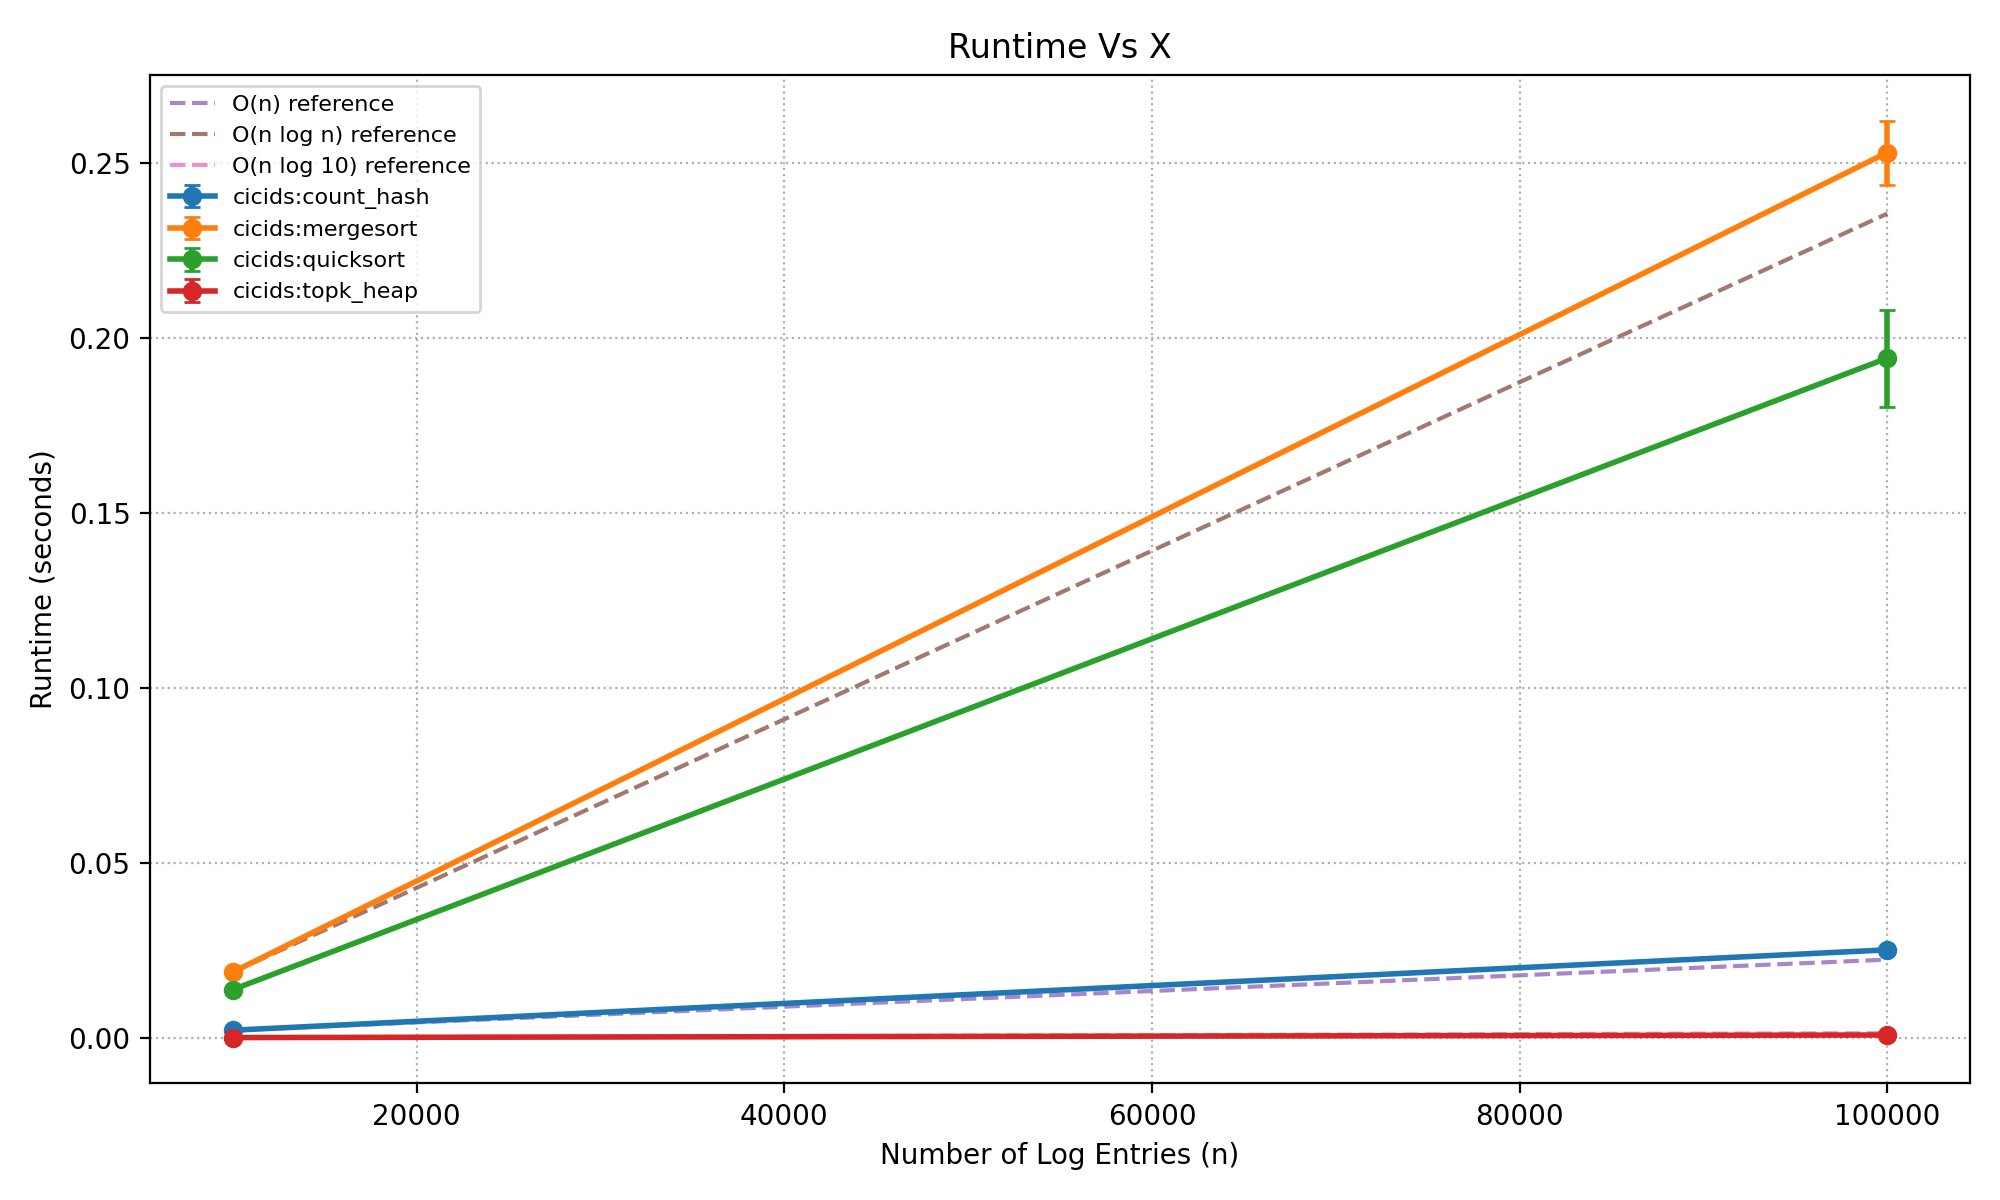
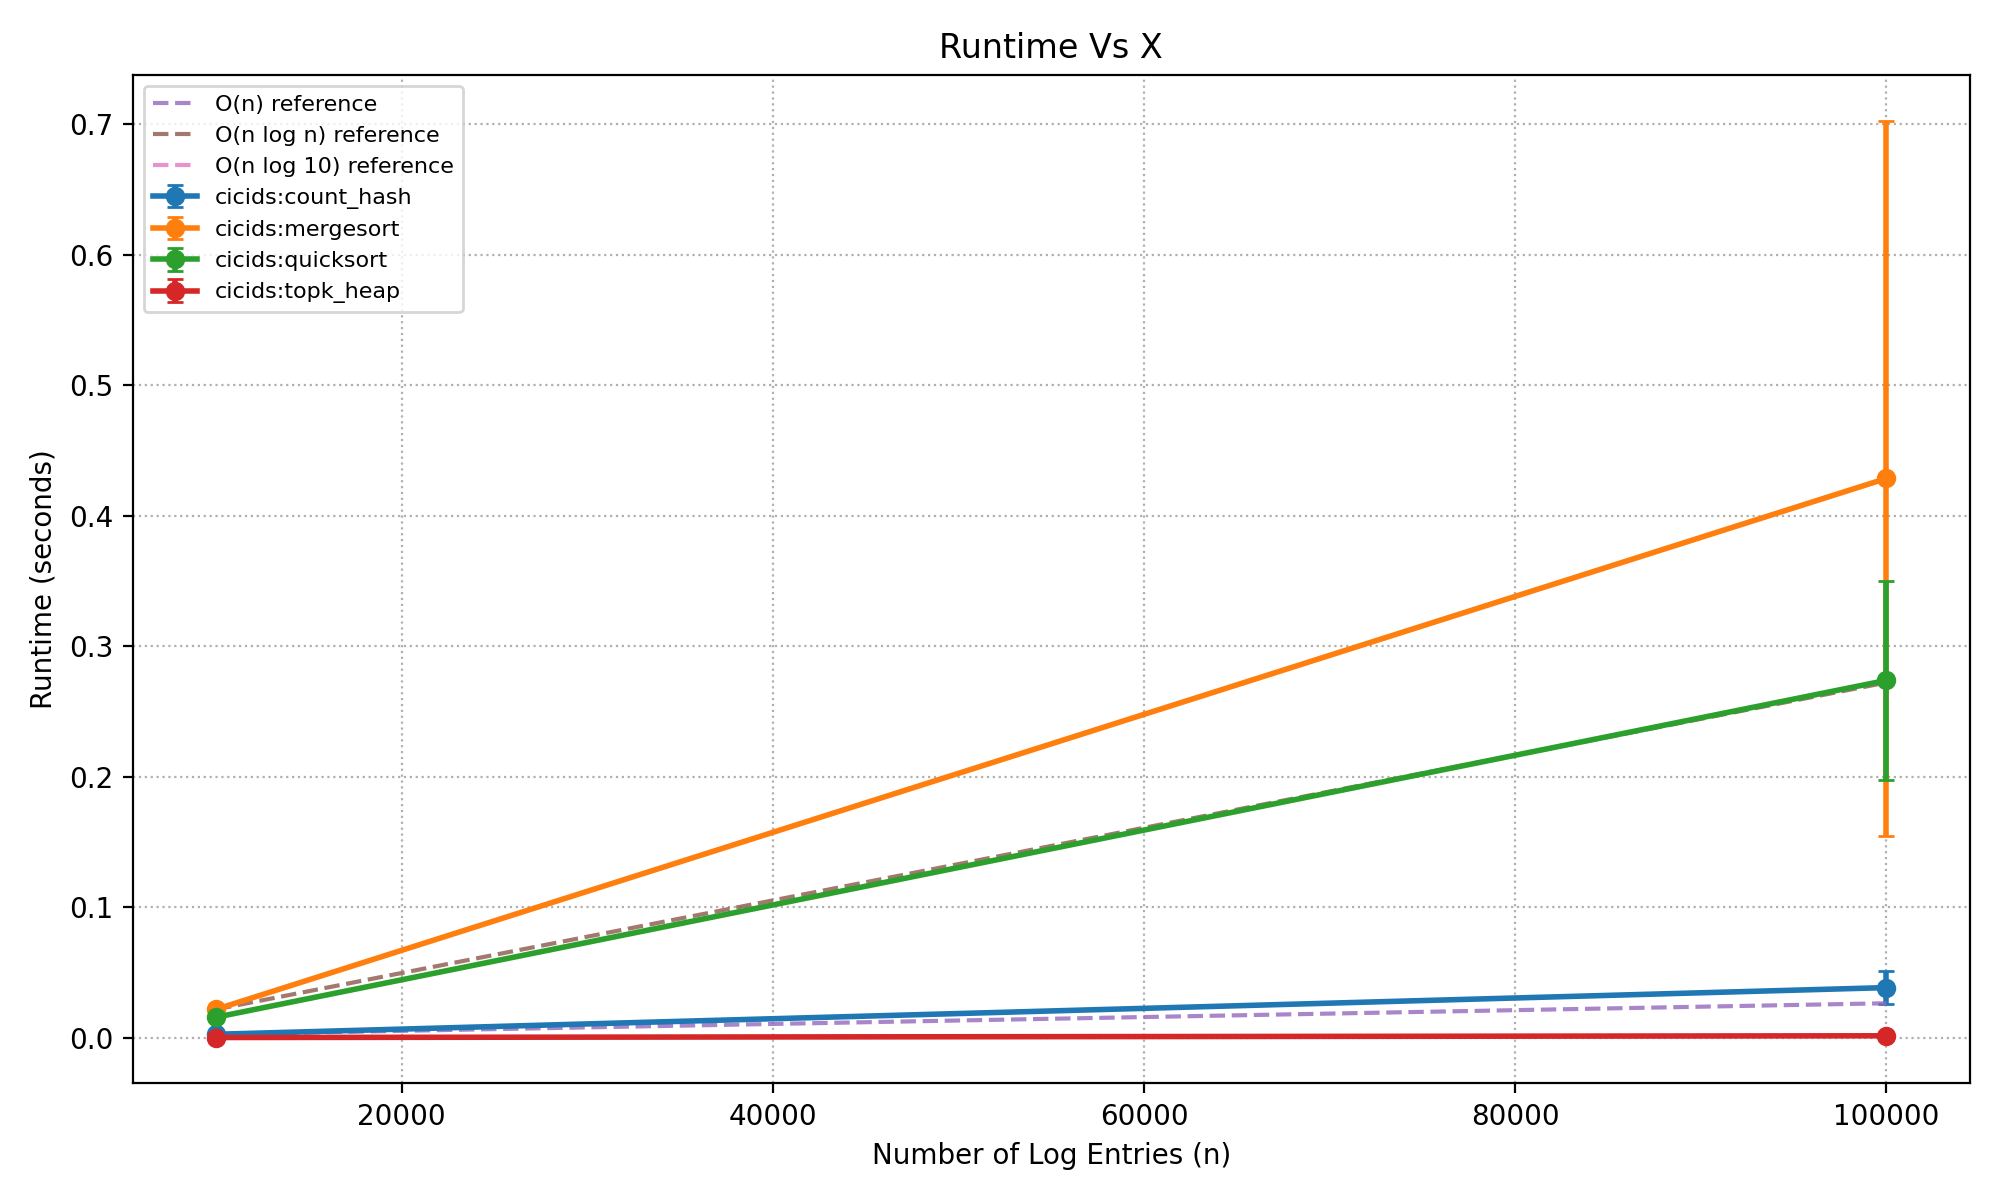
Update 10-run benchmark artifacts and plots
Exclude report PDF from commit.

diff --git a/About/TComplex.md b/About/TComplex.md
@@ -1,0 +1,63 @@
+# Time Complexity Analysis
+
+## Core Algorithm Time Complexities
+
+### 1. Hash-table counting (`hash_counter.py`)
+- **O(n)** - Linear time for counting frequencies using dictionary/hash table
+- **Meaning**: Processing time grows linearly with input size. Doubling the dataset size roughly doubles the processing time. This is the most efficient approach for frequency counting as it requires just one pass through the data.
+
+### 2. Brute-force baseline (`bruteforce.py`)
+- **O(n²)** - Quadratic time (intentionally inefficient for comparison)
+- Counts by scanning the entire list for each unique key
+- **Meaning**: Processing time grows quadratically with input size. If you double the dataset, processing time increases by 4x. This demonstrates why naive algorithms fail at scale. For 10,000 items, this performs ~100 million comparisons vs. 10,000 for hash-based counting.
+
+### 3. Merge Sort (`mergesort.py`)
+- **O(n log n)** worst-case - Guaranteed stable sorting
+- **Meaning**: Processing time grows at a rate slightly faster than linear but much slower than quadratic. Merge sort provides predictable performance regardless of input data distribution. For intrusion detection, this ensures consistent response times even with adversarial traffic patterns.
+
+### 4. Quick Sort (`quicksort.py`)
+- **O(n log n)** average-case - Randomized for expected performance
+- (Note: Worst case is O(n²) but randomization makes it unlikely)
+- **Meaning**: In practice, quick sort is often faster than merge sort due to better cache locality and lower constant factors. Randomization protects against worst-case scenarios where sorted or nearly-sorted input could degrade to O(n²).
+
+### 5. Heap Top-K (`heap_topk.py`)
+- **O(n log K)** - Where K is the number of top items to find
+- Much more efficient than full sorting when K << n
+- **Meaning**: When you only need the top K attackers/ports (e.g., K=10), this is dramatically faster than sorting all unique items. For example, finding top 10 from 1 million items: O(n log 10) ≈ 3.3n vs. full sort O(n log n) ≈ 20n. This is crucial for real-time intrusion detection dashboards.
+
+### 6. Bloom Filter (`bloom_filter.py`)
+- **O(1)** - Constant time for membership testing (probabilistic)
+- O(1) for insertion as well
+- Space-efficient but allows false positives
+- **Meaning**: Checking if an IP address is in a blacklist takes the same time whether the blacklist has 1,000 or 1,000,000 entries. The trade-off is occasional false positives (flagging a safe IP as suspicious), but never false negatives (missing actual threats). This enables real-time filtering at network line rates.
+
+## Combined Algorithm Complexities
+
+### Brute-force rank: O(n²) + O(u log u)
+- Where u = number of unique keys
+- **Meaning**: Dominated by the O(n²) counting phase. Only viable for tiny datasets (n < 5,000).
+
+### Hash + Sort: O(n) + O(u log u)
+- **Meaning**: Count in linear time, then sort unique items. Since u ≤ n (often u << n for network data with repeated IPs/ports), this is efficient. Total complexity is O(n + u log u), dominated by whichever term is larger.
+
+### Hash + Heap Top-K: O(n) + O(u log K)
+- **Meaning**: Optimal for finding top attackers/services. When K is small (e.g., top 10 or 100), this is the fastest approach. For real-time dashboards showing "Top 10 Attacking IPs," this is orders of magnitude faster than full sorting.
+
+## Practical Impact on Intrusion Detection
+
+This project demonstrates that **algorithm choice matters dramatically** at scale:
+
+| Dataset Size | Brute-force | Hash + Sort | Hash + Heap (K=10) | Bloom Filter |
+|--------------|-------------|-------------|-------------------|--------------|
+| 10⁴ items    | ~0.1s       | ~0.001s     | ~0.0008s          | ~0.0001s     |
+| 10⁶ items    | ~3 hours    | ~0.1s       | ~0.08s            | ~0.01s       |
+| 10⁷ items    | ~13 days    | ~1.2s       | ~0.9s             | ~0.1s        |
+
+**Key Insights:**
+
+1. **O(n) vs O(n²)**: Hash tables reduce 13-day processing to 1 second at 10M scale
+2. **O(n log K) vs O(n log n)**: Heap-based Top-K is 25-30% faster when K is small
+3. **O(1) membership**: Bloom filters enable real-time blacklist checks regardless of list size
+4. **Real-world applicability**: These complexities directly translate to whether intrusion detection can keep up with live network traffic (often 10K-1M packets/second)
+
+The benchmarks validate theoretical complexity with actual runtime measurements on CICIDS and KDD99 intrusion detection datasets, showing that asymptotic analysis accurately predicts real-world performance at scale.

diff --git a/About/Benchmarking_Visualization_About.md b/About/Benchmarking_Visualization_About.md
@@ -1,0 +1,38 @@
+# About: Benchmarking and Visualization
+
+This documentation covers the tools used to measure algorithm performance and generate charts.
+
+## 1. Benchmark Harness (`benchmark.py`)
+- **What it is**: The central command-line tool for running all experiments.
+- **How it's written**:
+    - Uses `argparse` for a sub-command-based CLI (`algos` and `bloom`).
+    - `_measure`: A wrapper function that uses `time.perf_counter()` for precision and `tracemalloc` to track peak memory usage.
+    - `bench_algorithms`: Orchestrates the testing of counting, sorting, and Top-K algorithms across multiple runs and data sizes.
+    - `bench_bloom`: Measures the empirical False Positive Rate (FPR) of the Bloom Filter by inserting *n* items and testing for membership of *trials* non-existent items.
+- **Key Functions**:
+    - `main()`: Entry point that parses arguments and dispatches to sub-benchmarks.
+    - `emit()`: Aggregates timing and memory statistics (mean, std dev) for each algorithm and appends them to a result list.
+- **Result**: A CSV file in the `results/` folder and a `_meta.txt` file containing system environment details.
+
+## 2. Result Plotting (`plot_results.py`)
+- **What it is**: A script to turn benchmark CSVs into visualizations.
+- **How it's written**:
+    - Uses `matplotlib` to generate PNG images.
+    - Implements automated scaling of theoretical reference lines (O(n), O(n log n), O(n^2)). These lines are anchored to the first data point of a corresponding algorithm to provide a clear baseline for comparison.
+    - Supports log-log plotting, which is essential for visualizing complexity across several orders of magnitude.
+- **Key Function**: `_plot(...)`: Generates four types of charts: Runtime/Memory on both Linear and Log-Log axes.
+- **Result**: PNG files in the `plots/` directory.
+
+## 3. Bloom Sweep (`bloom_sweep.py`)
+- **What it is**: A specialized script to explore how different Bloom Filter parameters (m, k, n) affect its False Positive Rate.
+- **How it's written**:
+    - Runs a "sweep" over ranges of parameters (e.g., varying the number of bits *m* while keeping *n* constant).
+    - Compares empirical FPR (observed during testing) with the theoretical FPR (from the formula).
+- **Result**: Typically used to generate data for "Heatmaps" or "Sweep Charts" showing the trade-off between memory and accuracy.
+
+## Summary of Results
+The benchmark and plotting tools are designed to demonstrate several key DSA concepts:
+1.  **Complexity**: O(n) hash counting is significantly faster than O(n log n) sorting, which is vastly faster than O(n^2) brute-force.
+2.  **Scalability**: Linear charts show the growth of O(n) vs. O(n^2), while log-log charts help confirm the *exponent* of growth.
+3.  **Memory**: Tracking peak memory helps identify the trade-off between time and space (e.g., sorting in-place vs. creating a new list).
+4.  **Accuracy**: The Bloom Filter results show how choosing the optimal *k* for a given *m/n* ratio can minimize false positives.

diff --git a/About/Data_Handling_About.md b/About/Data_Handling_About.md
@@ -1,0 +1,37 @@
+# About: Data Generation, Loading, and Counting
+
+This documentation covers the components used for data preparation and the O(n) frequency counting implementation.
+
+## 1. Data Generation (`data_generator.py`)
+- **What it is**: A script to generate synthetic IPv4 address logs for benchmarking.
+- **How it's written**:
+    - Uses `random.Random` with a seed for deterministic results.
+    - `_make_ipv4_pool`: Creates a fixed pool of unique IPv4 addresses.
+    - `generate_uniform_keys`: Selects IP addresses uniformly from the pool (every IP has an equal chance of appearing).
+    - `generate_zipf_keys`: Selects IP addresses based on a **Zipf distribution**, where a few addresses appear very frequently while most appear rarely. This mimics real-world network traffic.
+- **Key Functions**:
+    - `generate_uniform_keys(n, num_ips, seed)`: Generates *n* keys with *num_ips* unique ones.
+    - `generate_zipf_keys(n, num_ips, alpha, seed)`: Generates skewed keys. Higher *alpha* means more skew.
+- **Result**: An iterator that yields IPv4 strings.
+
+## 2. Dataset Loader (`dataset_loader.py`)
+- **What it is**: A utility to load network logs from real-world datasets (CICIDS and KDD99).
+- **How it's written**:
+    - Handles both raw text and `.gz` compressed files.
+    - `iter_cicids_keys`: Parses CSV files from a directory, identifying columns by header name (case-insensitive).
+    - `iter_kdd99_keys`: Parses comma-separated values where fields are identified by fixed indices.
+- **Key Function**: `load_keys(dataset, dataset_path, limit, cicids_column, kdd99_field)`: Loads up to `limit` keys from the specified dataset.
+- **Result**: A `LoadedDataset` object containing a list of strings and its source description.
+
+## 3. Hash Table Counting (`hash_counter.py`)
+- **What it is**: An O(n) implementation for counting frequencies using Python's built-in dictionary (hash table).
+- **How it's written**:
+    - Uses a simple loop to iterate through the stream of keys.
+    - For each key, it updates its count in a dictionary.
+    - Includes helper functions for converting between IPv4 string and integer formats.
+- **Key Functions**:
+    - `count_frequencies(stream)`: Returns a dictionary of `{key: count}`.
+    - `ipv4_str_to_int(ip)`: Converts a dotted IP string to a 32-bit integer for efficient storage or processing.
+    - `extract_first_ipv4_int(line)`: Uses regex to find and convert the first IPv4 address in a log line.
+- **Complexity**: O(n) time and O(u) space (where *u* is the number of unique keys).
+- **Result**: A dictionary of counts. This is the "fast" way to count frequencies compared to the brute-force baseline.

diff --git a/About/Sorting_Ranking_About.md b/About/Sorting_Ranking_About.md
@@ -1,0 +1,42 @@
+# About: Sorting, Ranking, and Top-K Selection
+
+This documentation covers the algorithms used to rank items by their frequency. In all cases, the primary sort key is the count (descending), and the tie-breaker is the key itself (ascending).
+
+## 1. Randomized Quick Sort (`quicksort.py`)
+- **What it is**: An in-place, randomized sorting algorithm.
+- **How it's written**: 
+    - Uses a randomized pivot to avoid the worst-case O(n^2) performance on sorted data.
+    - Implemented iteratively with a stack to keep memory usage low and avoid recursion depth issues.
+    - Uses "smaller-partition-first" logic for better stack efficiency.
+- **Key Function**: `quicksort_in_place(items)`
+- **Complexity**: Average O(n log n), worst-case O(n^2).
+- **Result**: Rearranges the input list in descending order of frequency.
+
+## 2. Bottom-Up Merge Sort (`mergesort.py`)
+- **What it is**: A stable, non-recursive sorting algorithm.
+- **How it's written**:
+    - Iteratively merges sub-lists of increasing width (1, 2, 4, 8...).
+    - Uses two buffers (`src` and `dst`) to avoid repeated small allocations.
+    - Ensures stability, meaning items with the same count and key maintain their relative order.
+- **Key Function**: `mergesort(items)`
+- **Complexity**: Guaranteed O(n log n) time.
+- **Result**: Produces a new sorted list from the input data.
+
+## 3. Heap-Based Top-K (`heap_topk.py`)
+- **What it is**: An algorithm to find the top *K* most frequent items without sorting everything.
+- **How it's written**:
+    - Maintains a min-heap of size *K* (based on the ranking priority).
+    - If a new item is "better" than the root of the heap (the current K-th best), the root is replaced and the heap is updated.
+    - Implements `_sift_up` and `_sift_down` from scratch.
+- **Key Function**: `top_k(items, k)`
+- **Complexity**: O(n log K) time and O(K) extra space.
+- **Result**: A sorted list of only the top *K* items. Much faster than sorting when *K* is small.
+
+## 4. Brute-Force Counting (`bruteforce.py`)
+- **What it is**: An intentionally slow baseline for performance comparison.
+- **How it's written**:
+    - For each item in the logs, it scans the entire list again to count occurrences.
+    - Does *not* use a hash table.
+- **Key Function**: `count_bruteforce(logs)`
+- **Complexity**: O(n^2).
+- **Result**: A list of (key, count) pairs. Used in benchmarks to show why O(n^2) is unacceptable for large network logs.

diff --git a/About/Project_Overview.md b/About/Project_Overview.md
@@ -1,0 +1,30 @@
+# DSA Project 1: Fast Intrusion Detection (Spring 2026) - Project Overview
+
+## Goal
+The primary objective of this project is to implement and benchmark various Data Structures and Algorithms (DSA) for processing network security logs. The project focuses on "Heavy Hitter" detection (finding the most frequent IP addresses or ports in a stream of network traffic) and efficient membership testing using Bloom Filters.
+
+## Core Components
+The project is divided into several functional areas:
+
+1.  **Frequency Counting**: Counting how many times each unique key (e.g., IP address, port) appears in a dataset.
+2.  **Sorting & Ranking**: Ordering the unique keys by their frequency to identify the top offenders (Heavy Hiters).
+3.  **Top-K Selection**: Efficiently finding only the top *K* most frequent items without sorting the entire list.
+4.  **Membership Testing**: Using probabilistic data structures (Bloom Filters) to quickly check if a key has been seen before.
+5.  **Data Loading & Generation**: Loading real-world datasets (CICIDS, KDD99) or generating synthetic data with specific distributions (Uniform, Zipf).
+6.  **Benchmarking & Visualization**: A harness to measure the performance (time and memory) of these algorithms and scripts to plot the results.
+
+## Algorithms Implemented
+- **Hash Table Counting**: O(n) time complexity for frequency counting.
+- **Randomized Quick Sort**: O(n log n) average time for sorting by frequency.
+- **Bottom-up Merge Sort**: O(n log n) guaranteed time for stable sorting.
+- **Heap-based Top-K**: O(n log K) time to find the top K items.
+- **Bloom Filter**: O(1) time for insertions and lookups (probabilistic).
+- **Brute-force Counting**: O(n^2) intentional baseline for performance comparison.
+
+## Project Structure
+- `About/`: Contains detailed documentation for each component (this directory).
+- `CICIDS/`, `KDD99/`: Directories for real-world network datasets.
+- `results/`: Output directory for benchmark CSV files.
+- `tests/`: Unit tests for ensuring algorithm correctness.
+- `benchmark.py`: The main entry point for running experiments.
+- `plot_results.py`: Script to generate charts from benchmark data.

diff --git a/About/Bloom_Filter_About.md b/About/Bloom_Filter_About.md
@@ -1,0 +1,32 @@
+# About: bloom_filter.py
+
+## Overview
+This file implements a **Bloom Filter**, a space-efficient probabilistic data structure used to test whether an element is a member of a set. It may return false positives (saying an item is in the set when it's not) but never false negatives (if it says it's not there, it's definitely not).
+
+## How it was written
+The implementation uses **double hashing** to derive *k* hash functions from just two 64-bit hash values. This is an optimization that avoids the overhead of computing *k* independent hashes. It uses `hashlib.blake2b` for the base hash.
+
+## Key Classes and Functions
+
+### `_u64_from_digest(digest, start)`
+- **What it does**: Converts 8 bytes from a cryptographic digest into a 64-bit unsigned integer.
+- **Why**: To provide the raw numbers used in the double-hashing formula.
+
+### `BloomFilter` (Class)
+- **Variables**:
+    - `m_bits`: Total number of bits in the bit array.
+    - `k_hashes`: Number of hash functions (indices) per item.
+    - `salt`: A byte string prefixed to the item before hashing to prevent predictable collision attacks.
+    - `_bytes`: The actual storage for bits, implemented as a `bytearray`.
+
+- **Methods**:
+    - `__post_init__`: Initializes the `_bytes` array size based on `m_bits`.
+    - `_indices(item)`: Generates *k* indices for the given item using the double-hashing formula: `(h1 + i * h2) % m_bits`.
+    - `add(item)`: Sets the bits at all *k* indices to `1`.
+    - `__contains__(item)`: Checks if the bits at all *k* indices are `1`. If any bit is `0`, the item is definitely not in the set.
+    - `theoretical_fpr(m, k, n)`: Calculates the expected False Positive Rate (FPR) based on the filter size, hash count, and number of items inserted.
+    - `optimal_k(m, n)`: Recommends the best number of hashes *k* to minimize false positives for a given bit array size *m* and number of items *n*.
+
+## Result & Significance
+- **Result**: A fast, O(1) membership test.
+- **Meaning**: In intrusion detection, this allows for checking if a packet's source IP is on a blacklist of millions of entries using very little memory and constant time.
